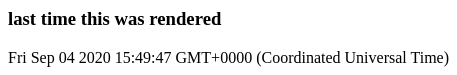
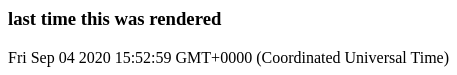
Updated markdown files

Changed region(s): [[0.2757, 0.6933, 0.3982, 0.8533]]

diff --git a/examples/javascript.md b/examples/javascript.md
@@ -18,14 +18,14 @@ console.table(table);
 ``` markdown-code-runner
 the javascript code is run in node
 it can do maths
-13091.294891903131
+198.42581586472608
 and can render a table
 ┌─────────┬──────────┬───────┐
 │ (index) │   name   │ yummy │
 ├─────────┼──────────┼───────┤
 │    0    │ 'chips'  │   2   │
-│    1    │ 'pizza'  │   7   │
-│    2    │ 'burger' │   1   │
+│    1    │ 'pizza'  │   6   │
+│    2    │ 'burger' │   9   │
 └─────────┴──────────┴───────┘
 
 ```
@@ -53,6 +53,6 @@ fetch('https://api.kanye.rest/')
 
 ``` markdown-code-runner
 Kanye West quote:
-I give up drinking every week
+People only get jealous when they care.
 
 ```

diff --git a/examples/bash.md b/examples/bash.md
@@ -10,9 +10,9 @@ echo date: $(date)
 
 
 ``` markdown-code-runner
-hostname: fv-az56
+hostname: fv-az174
 shell: /bin/bash
 ls: LICENSE README.4.png README.md action.yml dist examples jest.config.js node_modules package.json setup-and-run.js src tsconfig.json yarn.lock
-date: Fri Sep 4 15:48:27 UTC 2020
+date: Fri Sep 4 15:51:46 UTC 2020
 
 ```

diff --git a/examples/python.md b/examples/python.md
@@ -17,6 +17,6 @@ else:
 
 ``` markdown-code-runner
 running python code is easy
-all bets on red
+all bets on black
 
 ```
